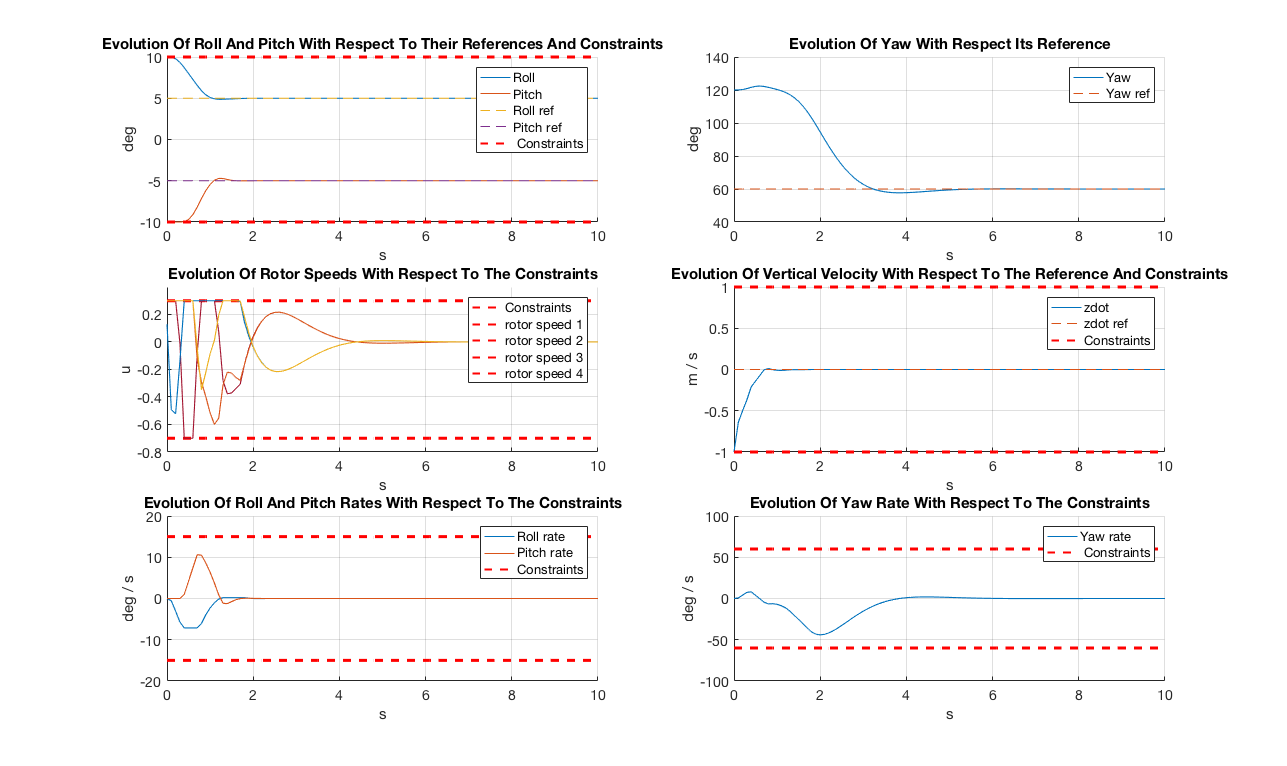
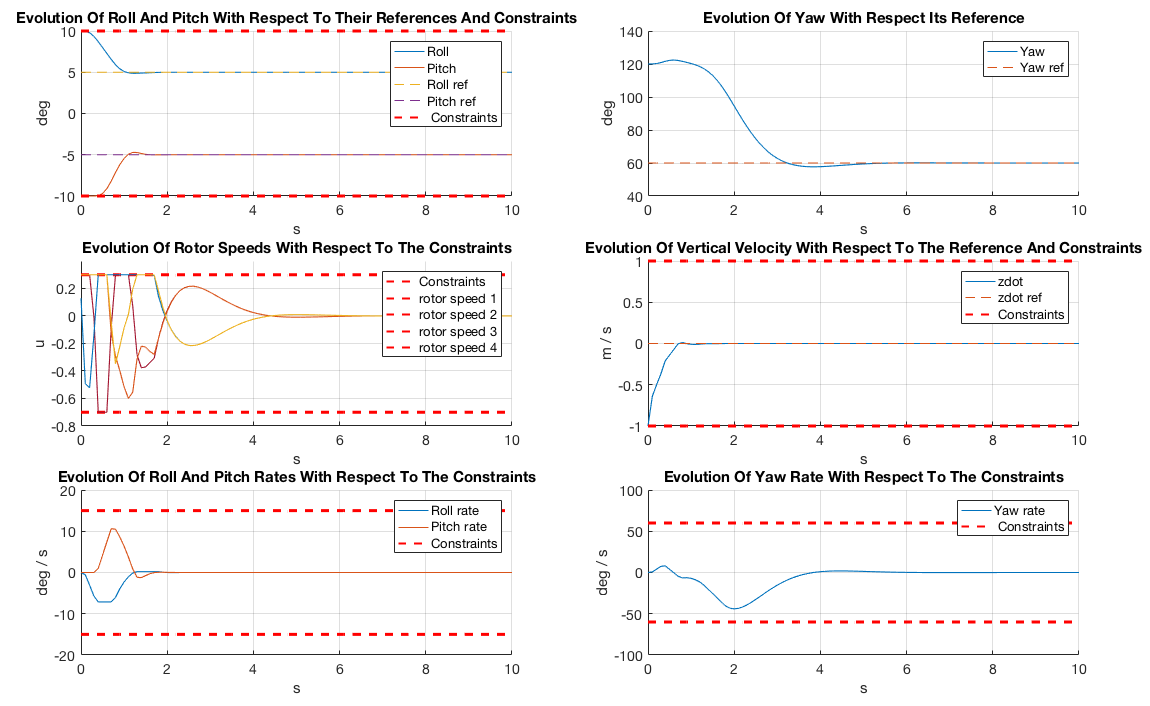
Correction in reference tracking for constraints on state in first step of horizon

diff --git a/quadcopter/disturbance_rejection.m b/quadcopter/disturbance_rejection.m
@@ -2,6 +2,7 @@ function [ innerController, filter ] = disturbance_rejection(sys, N, x0, r, T, d
 %DISTURBANCE_REJECTION Summary of this function goes here
 %   Detailed explanation goes here
 
+
 %% Initializations
 Qf = sys.LQRPenalty.weight;
 Af = sys.LQRSet.A;
@@ -23,26 +24,32 @@ Cd = zeros(n_r,n_d);
 
 %% Design Estimator Using Pole Placement
 A_hat = [A, eye(n_x); zeros(n_x), eye(n_x)];
-B_hat = [B; zeros(n_x,1)];
+B_hat = [B; zeros(n_x,n_u)];
 C_hat = [eye(n_x),zeros(n_x)];
 
+%State poles
 pz= 0.35; % altitude
 pa= 0.3;  % fast convergence for roll which was slow
 pb= 0.4;  % relatively fast convergence for yaw
 pg= 0.8;  % not important to have fast convergence
-%Anything in between
-pad= 0.45;
+pad= 0.45; %Anything in between
 pbd= 0.5;
 pgd= 0.55;
-pu1= 0.6;
-pu2= 0.65;
-pu3= 0.7;
-pu4= 0.75;
+% Disturbance poles
+pdz= 0.6; 
+pda= 0.65;
+pdb= 0.7;
+pdg= 0.75;
+pdzd= -0.6;
+pdad= -0.65;
+pdbd= -0.7;
+pdgd= -0.75;
 
 poles_x = [pz;pa;pb;pg;pad;pbd;pgd]';
-poles_u = [pu1,pu2,pu3,pu4];
+poles_u = [pdz;pda;pdb;pdg;pdad;pdbd;pdgd]';
 
-F_kalman = [poles_x,poles_u]; %Study what the values do
+%F_kalman = [poles_x,poles_u]; %Study what the values do
+F_kalman = linspace(0.99,0.95,14);
 L = -place(A_hat',C_hat',F_kalman)';
 
 filter.Af = A_hat-L*C_hat;
@@ -74,7 +81,7 @@ obj = us'*us; % us'*Rs*us; % Terminal weight
 con = [con , u_init == du(:,1) + us ]
 
 % x and d estimation
-con = [con, [x_est ; d_est] == filter.Af * [x_init ; d_est_init] + filter.Bf * [u_init ; x_init]]; ]
+con = [con, [x_est ; d_est] == filter.Af * [x_init ; d_est_init] + filter.Bf * [u_init ; x_init]];
 
 
 % Steady State Constraints
@@ -84,27 +91,24 @@ con = [con, sys.x.min <= xs <= sys.x.max ]; % State constraints
 
 con = [con , dx(:,1) ==  x_est - xs ];
 
-for k = 1:N-1
-    
+for k = 1:N-1    
     % MPC Delta Formulation Constraints
-
     con = [con, (dx(:,k+1) == sys.A*dx(:,k) + sys.B*du(:,k))]; % System dynamics
-    con = [con, sys.x.min <= dx(:,k) + xs  <= sys.x.max ]; % State constraints
+    if k>=2 %Constraints on the state might not be respected at first step due to disturbances
+        con = [con, sys.x.min <= dx(:,k) + xs  <= sys.x.max ]; % State constraints
+    end
     con = [con, sys.u.min <= du(:,k) + us <= sys.u.max ]; % Input constraints
     obj = obj + dx(:,k)'*Q*dx(:,k) + du(:,k)'*R*du(:,k); % Cost function
 end
-
+% Constraints For Step N
 con = [con, Af*dx(:,N) <= bf ]; % Terminal constraint
 obj = obj + dx(:,N)'*Qf*dx(:,N); % Terminal weight
 
 % Compile the matrices
 ops = sdpsettings('verbose',1,'solver','quadprog');
 
-
-
 innerController = optimizer(con, obj, ops, [x_init ; ref ; d_est_init], du(:,1) + us);
-
-simQuad( sys, innerController, x0, T , r);
+simQuad( sys, innerController, x0, T , r, filter,  d);
 
 
 end

diff --git a/quadcopter/main.m b/quadcopter/main.m
@@ -17,7 +17,7 @@ sys = first_controller(sys,T,x0 , N,us );
 
 %% Reference tracking - no disturbance, no invariant sets
 fprintf('PART II - reference tracking...\n')
-T = 10;
+T = 30;
 N = ceil(2/sys.Ts);
 
 N_ref = T/sys.Ts;
@@ -39,8 +39,11 @@ fprintf('Running the FIRST NL model simulation...\n')
 %pause
 
 %% Disturbance estimation
-%estimator
 
+T = 30;
+N = ceil(2/sys.Ts);
+%step_ref = 
+[ innerController, filter ] = disturbance_rejection(sys, N, x0, constant_ref, T, []);
 
 %% Offset free MPC
 fprintf('PART III - OFFSET FREE / Disturbance rejection...\n')
